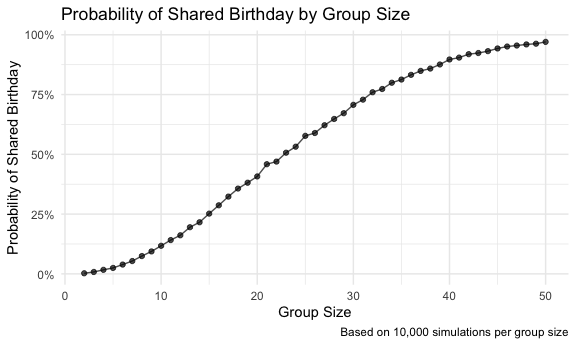
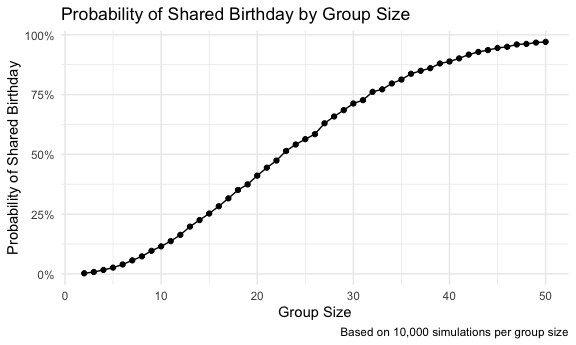
problem 2 completed

diff --git a/p8105_hw5_rl3610.md b/p8105_hw5_rl3610.md
@@ -8,13 +8,13 @@ Ruohan Lyu
 ### Create a funtion
 
 ``` r
-bday_sim = function(n) {
+bday_sim = function(n_room) {
   
-  birthdays = sample(1:365, n, replace = TRUE)
+  birthdays = sample(1:365, n_room, replace = TRUE)
 
-  has_duplicate = length(unique(birthdays)) < n
+  repeated_bday = length(unique(birthdays)) < n_room
 
-  has_duplicate
+  repeated_bday
   
 }
 ```
@@ -22,30 +22,29 @@ bday_sim = function(n) {
 ### Simulation
 
 ``` r
-bday_sim_results_df = 
+bday_sim_results = 
   expand_grid(
-    group_size = 2:50,
+    bdays = 2:50, 
     iter = 1:10000
   ) |> 
   mutate(
-    has_duplicate = map_lgl(group_size, bday_sim)
-  )
-
-bday_summary_df = 
-  bday_sim_results_df |> 
-  group_by(group_size) |> 
+    result = map_lgl(bdays, bday_sim)
+  ) |> 
+  group_by(
+    bdays
+  ) |> 
   summarize(
-    prob_shared_bday = mean(has_duplicate)
+    prob_repeat = mean(result)
   )
 ```
 
 ### Make the plot
 
 ``` r
-bday_summary_df |> 
-  ggplot(aes(x = group_size, y = prob_shared_bday)) + 
-  geom_point(alpha = 0.7) + 
-  geom_line(alpha = 0.7) +
+bday_sim_results |> 
+  ggplot(aes(x = bdays, y = prob_repeat)) + 
+  geom_point() + 
+  geom_line() +
   labs(
     title = "Probability of Shared Birthday by Group Size",
     x = "Group Size",
@@ -58,6 +57,156 @@ bday_summary_df |>
 
 <img src="p8105_hw5_rl3610_files/figure-gfm/unnamed-chunk-4-1.png" width="90%" />
 
-The simulation results demonstrate the well-known “Birthday Paradox”
-phenomenon: With just 23 people, the probability of a shared birthday
-exceeds 50%, and with 50 people, the probability approaches over 97%.
+The plot shows that the probability of shared birthday rises quickly as
+the number of people in the room increases. When the group size is
+small(fewer than 10 people), the probability of a shared birthday is
+very low. Around a group size of 23, the probability reaches about 50%,
+and by the time the group reaches around 50 people, the probability is
+close to 100%.
+
+# Problem 2
+
+### Create a funtion
+
+``` r
+t_test_sim = function(mu) {
+
+  x = rnorm(n = 30, mean = mu, sd = 5)
+
+  test_result = t.test(x, mu = 0)
+  
+  tidy_results = broom::tidy(test_result)
+  
+  tibble(
+    mu_hat = pull(tidy_results, estimate),
+    p_value = pull(tidy_results, p.value)
+  )
+  
+}
+```
+
+### Simulation
+
+``` r
+power_sim_results_df = 
+  expand_grid(
+    true_mu = c(0:6),
+    iter = 1:5000
+  ) |> 
+  mutate(
+    results = map(true_mu, t_test_sim)
+  ) |> 
+  unnest(results) |> 
+  mutate(
+    reject_null = p_value < 0.05
+  )
+```
+
+### Plot 1: Power vs. Effect Size
+
+``` r
+power1_summary_df = 
+  power_sim_results_df |> 
+  group_by(true_mu) |> 
+  summarize(
+    power = mean(reject_null)
+  )
+
+power1_summary_df |> 
+  ggplot(aes(x = true_mu, y = power)) + 
+  geom_point() + 
+  geom_line() +
+  labs(
+    title = "Statistical Power vs. Effect Size",
+    x = "True Effect Size (μ)",
+    y = "Power (Probability of Rejecting H0)",
+    caption = "n = 30, σ = 5, α = 0.05, 5000 simulations per effect size"
+  ) +
+  scale_y_continuous(labels = scales::percent_format()) +
+  theme_minimal()
+```
+
+<img src="p8105_hw5_rl3610_files/figure-gfm/unnamed-chunk-7-1.png" width="90%" />
+
+``` r
+power1_summary_df
+```
+
+    ## # A tibble: 7 × 2
+    ##   true_mu  power
+    ##     <int>  <dbl>
+    ## 1       0 0.0464
+    ## 2       1 0.192 
+    ## 3       2 0.562 
+    ## 4       3 0.889 
+    ## 5       4 0.987 
+    ## 6       5 1     
+    ## 7       6 1
+
+The simulation results demonstrate a strong positive association between
+effect size and statistical power. As μ increases, the power of the
+t-test rises dramatically from approximately 5% to nearly 100%, showing
+that larger effect sizes are detected with substantially higher
+probability given a sample size of 30.
+
+### Plot 2: Average Estimates vs. True Effect Size
+
+``` r
+power2_summary_df = 
+  power_sim_results_df |> 
+  group_by(true_mu) |> 
+  summarize(
+    avg_mu_hat = mean(mu_hat),
+    avg_mu_hat_rejected = mean(mu_hat[reject_null])
+  )
+
+power2_summary_df |> 
+  select(true_mu, avg_mu_hat, avg_mu_hat_rejected) |> 
+  pivot_longer(
+    cols = c(avg_mu_hat, avg_mu_hat_rejected),
+    names_to = "estimate_type",
+    values_to = "mean_estimate"
+  ) |> 
+  mutate(
+    estimate_type = case_when(
+      estimate_type == "avg_mu_hat" ~ "All Samples",
+      estimate_type == "avg_mu_hat_rejected" ~ "Only When H₀ Rejected"
+    )
+  ) |> 
+  ggplot(aes(x = true_mu, y = mean_estimate, color = estimate_type)) + 
+  geom_point() + 
+  geom_line() +
+  geom_abline(slope = 1, intercept = 0, linetype = "dashed", alpha = 0.5) +
+  labs(
+    title = "Average Estimates vs. True Effect Size",
+    x = "True Effect Size (μ)",
+    y = "Average Estimate (μ̂)",
+    color = "Sample Type",
+    caption = "Dashed line represents perfect estimation (y = x)"
+  ) +
+  theme_minimal()
+```
+
+<img src="p8105_hw5_rl3610_files/figure-gfm/unnamed-chunk-8-1.png" width="90%" />
+
+``` r
+power2_summary_df
+```
+
+    ## # A tibble: 7 × 3
+    ##   true_mu avg_mu_hat avg_mu_hat_rejected
+    ##     <int>      <dbl>               <dbl>
+    ## 1       0    0.00353              0.0620
+    ## 2       1    1.02                 2.27  
+    ## 3       2    2.01                 2.63  
+    ## 4       3    3.02                 3.21  
+    ## 5       4    4.01                 4.04  
+    ## 6       5    4.98                 4.98  
+    ## 7       6    6.01                 6.01
+
+No, the sample average of μ̂ across tests for which the null is rejected
+is not approximately equal to the true value of μ, especially for small
+effects. This overestimation occurs because we only reject the null
+hypothesis when sampling variation produces unusually large estimates.
+The bias diminishes for larger true effects, where significance is
+almost guaranteed.
